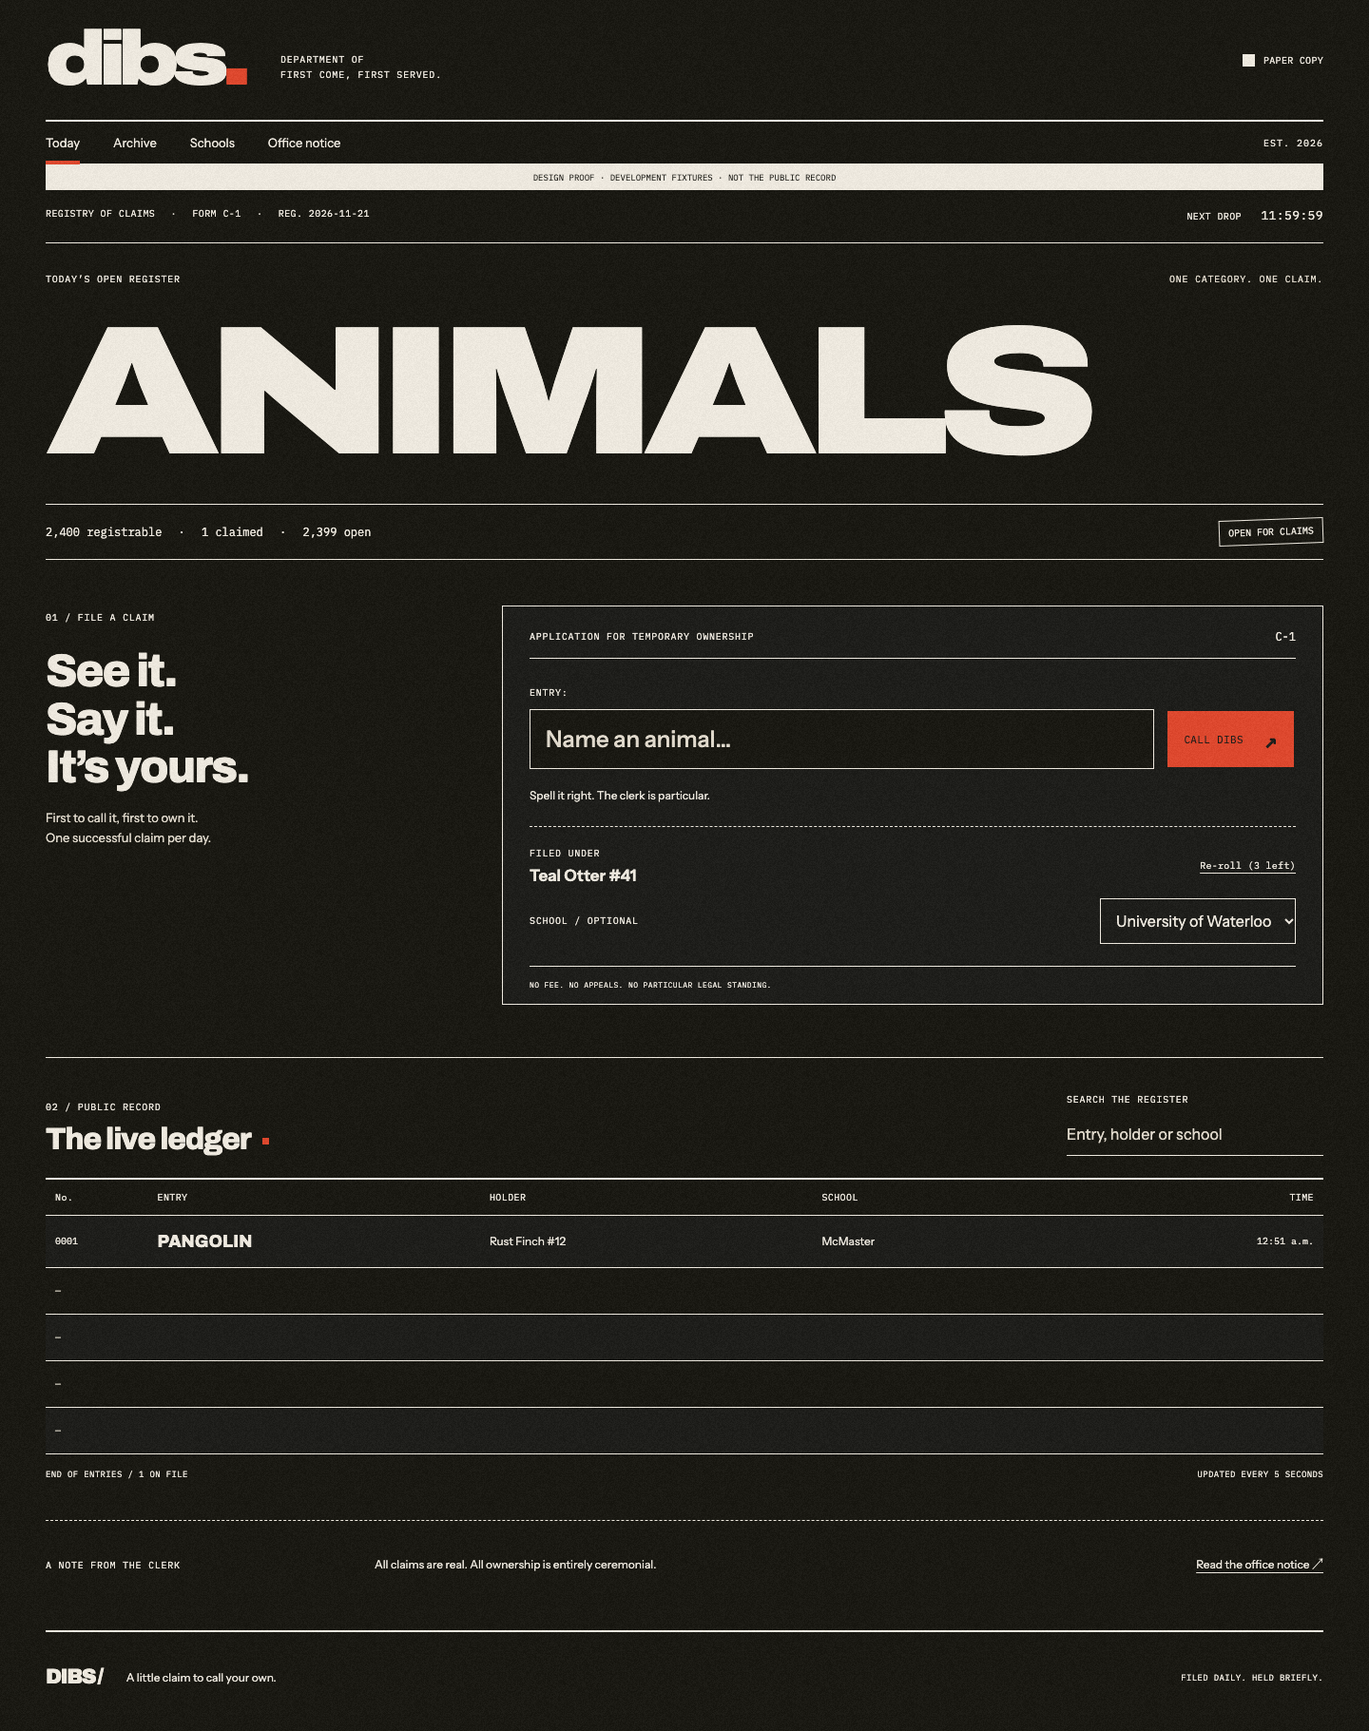
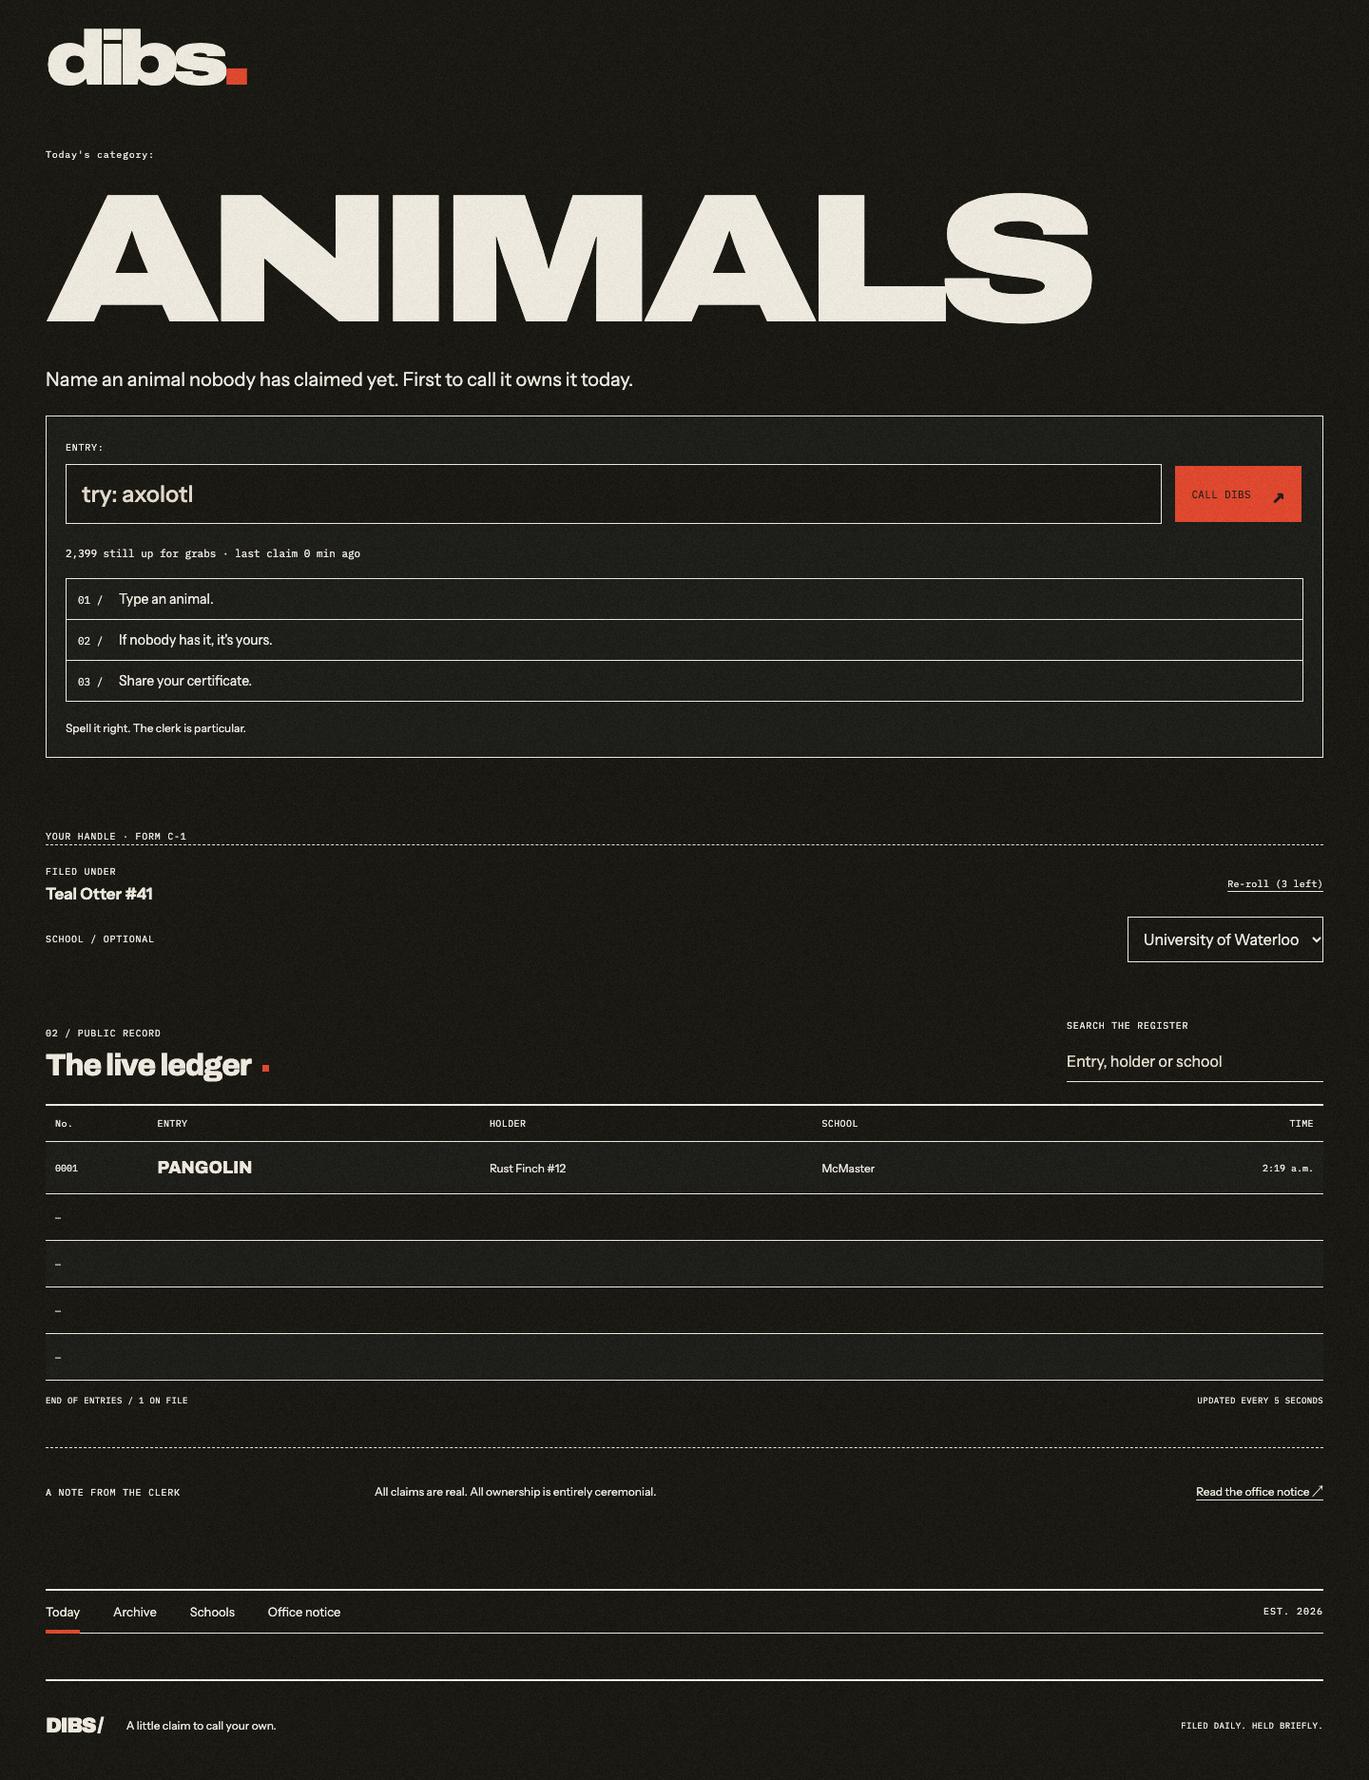
R2: put the game and claim input in the first phone viewport

diff --git a/src/App.tsx b/src/App.tsx
@@ -131,7 +131,7 @@ export default function App() {
       <a className="skip" href="#main">
         Skip to registry
       </a>
-      <div className="page">
+      <div className={"page " + (path === "/" ? "home-page" : "")}>
         <header className="masthead">
           <Link to="/" className="wordmark" aria-label="Dibs home">
             dibs<span className="wordmark-dot">.</span>
@@ -360,7 +360,7 @@ function Home({
       setTaken(err.status === 409);
       setMessage(
         err.status === 409
-          ? `${answer.toUpperCase()} is already registered to ${err.data.takenBy} (${time(err.data.at)}). Please call dibs on something else.`
+          ? `Someone already called dibs on ${answer.toUpperCase()} (${err.data.takenBy}). Try another.`
           : err.message,
       );
       input.current?.focus();
@@ -370,64 +370,19 @@ function Home({
   }
   return (
     <>
-      <div className="reg-strip">
-        <span>
-          REGISTRY OF CLAIMS <b>·</b> FORM C-1 <b>·</b> REG.{' '}
-          {today.category?.date ||
-            new Date().toLocaleDateString('en-CA', { timeZone: 'America/Toronto' })}
-        </span>
-        <span>
-          NEXT DROP <Clock target={today.nextDrop} />
-        </span>
-      </div>
       <section className="daily-heading">
-        <div className="heading-note">
-          <span className="eyebrow">
-            {today.category ? 'TODAY’S OPEN REGISTER' : 'OFFICE NOTICE / 001'}
-          </span>
-          <span className="folio">ONE CATEGORY. ONE CLAIM.</span>
-        </div>
+        <span className="eyebrow">{today.category ? "Today's category:" : 'THE DAILY GAME OF FIRST CLAIMS'}</span>
         <CategoryHeading name={today.category?.name || 'DIBS'} />
-        <div className="category-bottom">
-          <span>
-            {today.category ? (
-              <>
-                <strong>{today.category.total_registrable.toLocaleString()}</strong> registrable{' '}
-                <i>·</i> <strong>{today.claimed.toLocaleString()}</strong> claimed <i>·</i>{' '}
-                <strong>{today.open.toLocaleString()}</strong> open
-                {!!today.voided && (
-                  <>
-                    <i>·</i>
-                    <strong>{today.voided.toLocaleString()}</strong> voided
-                  </>
-                )}
-              </>
-            ) : (
-              'THE DAILY REGISTRY OF FIRST CLAIMS'
-            )}
-          </span>
-          <span className="small-stamp">
-            {today.category ? 'OPEN FOR CLAIMS' : 'AWAITING REVIEW'}
-          </span>
-        </div>
+        {today.category && <p className="game-rule">Name {today.category.slug === 'animals' ? 'an animal' : 'an item in this category'} nobody has claimed yet. First to call it owns it today.</p>}
       </section>
       {!today.category ? (
         <section className="closed-office">
           <span className="section-number">01 /</span>
           <div>
-            <h2>
-              The next register
-              <br />
-              is on the clerk’s desk.
-            </h2>
-            <p>
-              One category. One answer that belongs to you.
-              <br />
-              New registers open at 9 PM, Toronto time.
-            </p>
-            <p className="eyebrow">
-              {today.closedReason || 'CATEGORIES ARE UNDER REVIEW. NO CLAIMS ARE OPEN YET.'}
-            </p>
+            <h2>The office opens tonight.</h2>
+            <p>The next category drops tonight at 9 PM ET. Come back to call dibs.</p>
+            <p className="eyebrow">NEXT DROP <Clock target={today.nextDrop} /></p>
+            <p className="closed-example">EXAMPLE · If the category is Animals, type “axolotl”. If nobody has it, it’s yours. Share your certificate.</p>
           </div>
           <div className="closed-seal" aria-hidden="true">
             DIBS
@@ -473,25 +428,7 @@ function Home({
           animate={landed && !reduced ? { x: [0, -6, 6, -3, 0] } : {}}
           transition={{ duration: 0.25 }}
         >
-          <div className="claim-side">
-            <span className="section-number">01 / FILE A CLAIM</span>
-            <h2>
-              See it. <br />
-              Say it.
-              <br />
-              It’s yours.
-            </h2>
-            <p>
-              First to call it, first to own it.
-              <br />
-              One successful claim per day.
-            </p>
-          </div>
           <div className="claim-paper">
-            <div className="form-heading">
-              <span className="eyebrow">APPLICATION FOR TEMPORARY OWNERSHIP</span>
-              <span>C-1</span>
-            </div>
             <form onSubmit={submit}>
               <label className="eyebrow" htmlFor="answer">
                 ENTRY:
@@ -502,7 +439,7 @@ function Home({
                   id="answer"
                   name="answer"
                   value={answer}
-                  placeholder={`Name an ${today.category.name.toLowerCase() === 'animals' ? 'animal' : 'entry'}…`}
+                  placeholder={today.category.slug === 'animals' ? 'try: axolotl' : 'Name an item…'}
                   onChange={(e) => {
                     setAnswer(e.target.value);
                     setActive(-1);
@@ -568,10 +505,23 @@ function Home({
                   </li>
                 ))}
               </ul>
+              <p className="live-strip">{today.open.toLocaleString()} still up for grabs · {today.lastClaimAt ? `last claim ${Math.max(0, Math.floor((Date.now() - Date.parse(today.lastClaimAt)) / 60000))} min ago` : 'be the first to claim'}</p>
+              <ol className="how-it-works" aria-label="How it works">
+                <li>Type {today.category.slug === 'animals' ? 'an animal' : 'a category item'}.</li>
+                <li>If nobody has it, it's yours.</li>
+                <li>Share your certificate.</li>
+              </ol>
               <div ref={turnstileBox} className="turnstile" />
               <p className={'clerk-message ' + (taken ? 'taken' : '')} role="status">
                 {message || 'Spell it right. The clerk is particular.'}
               </p>
+            </form>
+
+          </div>
+        </motion.section>
+      )}
+      {!claim && me.user && <section className="identity-section">
+        <span className="eyebrow">YOUR HANDLE · FORM C-1</span>
               <div className="identity">
                 <div>
                   <span className="eyebrow">FILED UNDER</span>
@@ -599,11 +549,7 @@ function Home({
                   ))}
                 </select>
               </div>
-            </form>
-            <div className="form-foot">NO FEE. NO APPEALS. NO PARTICULAR LEGAL STANDING.</div>
-          </div>
-        </motion.section>
-      )}
+      </section>}
       <Ledger category={today.category} />
       <div className="bottom-note">
         <span className="eyebrow">A NOTE FROM THE CLERK</span>

diff --git a/src/style.css b/src/style.css
@@ -1795,3 +1795,29 @@ html.low-power .claim-imprint strong {
   z-index: 3;
   pointer-events: none;
 }
+/* Round 2: the game is the first form on the page. */
+.home-page { display: flex; flex-direction: column; }
+.home-page > nav { order: 2; margin-top: 36px; }
+.home-page > footer { order: 3; }
+.home-page .mast-note, .home-page .theme-toggle { display: none; }
+.home-page .demo-label { display: none; }
+.home-page .daily-heading { padding-top: 24px; }
+.home-page .category { margin: 12px 0 20px; }
+.game-rule { font-size: 20px; max-width: 650px; margin-bottom: 24px; line-height: 1.4; }
+.home-page .claim-section { display: block; padding: 0; border: 0; }
+.home-page .claim-paper { padding: 20px; }
+.live-strip { font: 11px/1.7 Plex, monospace; margin: 22px 0 16px; }
+.how-it-works { list-style: none; padding: 0; margin: 0; counter-reset: steps; }
+.how-it-works li { border: 1px solid var(--ink); padding: 12px; font-size: 14px; }
+.how-it-works li + li { border-top: 0; }
+.how-it-works li:before { counter-increment: steps; content: '0' counter(steps) ' / '; font: 11px Plex, monospace; margin-right: 10px; }
+.home-page .clerk-message { margin-bottom: 0; }
+.identity-section { margin-top: 70px; }
+@media(max-width: 600px) {
+  .home-page .masthead { min-height: 92px; padding: 16px 0; }
+  .home-page .daily-heading { padding-top: 22px; }
+  .home-page .category { margin: 12px 0 18px; }
+  .game-rule { font-size: 18px; margin-bottom: 24px; }
+  .home-page .claim-paper { padding: 16px; }
+  .home-page .identity-section { margin-top: max(70px, calc(844px - 640px)); }
+}

diff --git a/worker/index.ts b/worker/index.ts
@@ -288,7 +288,7 @@ export async function route(req: Request, env: Env): Promise<Response> {
     const category = await current(env);
     const counts = category
       ? await env.DB.prepare(
-          'SELECT COUNT(*) reserved,COALESCE(SUM(voided=0),0) claimed FROM claims WHERE category_id=?',
+          'SELECT COUNT(*) reserved,COALESCE(SUM(voided=0),0) claimed,MAX(CASE WHEN voided=0 THEN created_at END) lastClaimAt FROM claims WHERE category_id=?',
         )
           .bind(category.id)
           .first<any>()
@@ -297,6 +297,7 @@ export async function route(req: Request, env: Env): Promise<Response> {
     return json({
       category,
       claimed,
+      lastClaimAt: counts.lastClaimAt || null,
       open: category ? category.total_registrable - Number(counts.reserved) : 0,
       voided: Number(counts.reserved) - claimed,
       nextDrop: nextDrop(),

diff --git a/tests/e2e/first-viewport.spec.ts b/tests/e2e/first-viewport.spec.ts
@@ -1,0 +1,13 @@
+import { test, expect } from '@playwright/test';
+test('a fresh phone explains the game and can call dibs without scrolling', async ({ page }) => {
+  await page.setViewportSize({ width: 390, height: 844 });
+  await page.goto('/');
+  await expect(page.locator('.game-rule')).toHaveText('Name an animal nobody has claimed yet. First to call it owns it today.');
+  await page.evaluate(() => document.fonts.ready);
+  for (const locator of [page.locator('h1.category'), page.locator('.game-rule'), page.getByLabel('ENTRY:', {exact:true}), page.getByRole('button', {name:'CALL DIBS'})]) {
+    const box = await locator.boundingBox();
+    expect(box).not.toBeNull();
+    expect(box!.y).toBeGreaterThanOrEqual(0);
+    expect(box!.y + box!.height).toBeLessThanOrEqual(844);
+  }
+});

diff --git a/scripts/screenshots.ts b/scripts/screenshots.ts
@@ -31,7 +31,7 @@ for (const width of [390, 1440])
     await page.goto('http://127.0.0.1:5173');
     await page.getByLabel('ENTRY:', { exact: true }).fill('Pangolin');
     await page.getByRole('button', { name: 'CALL DIBS' }).click();
-    await page.getByRole('status').filter({ hasText: 'already registered' }).waitFor();
+    await page.getByRole('status').filter({ hasText: 'already called dibs' }).waitFor();
     await page.screenshot({ path: `${dir}/taken-${width}-${theme}.png`, fullPage: true });
     await page.getByLabel('ENTRY:', { exact: true }).fill('Axolotl');
     await page.getByRole('button', { name: 'CALL DIBS' }).click();

diff --git a/tests/e2e/rollover.spec.ts b/tests/e2e/rollover.spec.ts
@@ -11,7 +11,7 @@ test('a new daily register clears yesterday’s certificate and form state', asy
   await page.goto('/');
   await page.getByLabel('ENTRY:', { exact: true }).fill('Pangolin');
   await page.getByRole('button', { name: 'CALL DIBS' }).click();
-  await expect(page.getByRole('status')).toContainText('already registered');
+  await expect(page.getByRole('status')).toContainText('already called dibs');
   await page.getByLabel('ENTRY:', { exact: true }).fill('Axolotl');
   await page.getByRole('button', { name: 'CALL DIBS' }).click();
   await expect(

diff --git a/tests/e2e/flow.spec.ts b/tests/e2e/flow.spec.ts
@@ -27,7 +27,7 @@ test('full filing, certificate, sharing and public record', async ({ page }, inf
   await input.press('Enter');
   await expect(input).toHaveValue('Pangolin');
   await page.getByRole('button', { name: 'CALL DIBS' }).click();
-  await expect(page.getByRole('status')).toContainText('already registered');
+  await expect(page.getByRole('status')).toContainText('already called dibs');
   await shot('02-taken');
   await input.fill('Axolotl');
   await page.getByRole('button', { name: 'CALL DIBS' }).click();

diff --git a/dev/fixture.ts b/dev/fixture.ts
@@ -55,6 +55,7 @@ export async function request(path: string, body?: any): Promise<any> {
     return {
       category,
       claimed: claims.length,
+      lastClaimAt: claims[0]?.created_at || null,
       open: 2400 - claims.length,
       nextDrop: new Date(Date.now() + 3600000 * 12).toISOString(),
       turnstileSiteKey: 'demo',

diff --git a/src/types.ts b/src/types.ts
@@ -34,6 +34,7 @@ export interface Today {
   nextDrop: string;
   turnstileSiteKey: string;
   closedReason?: string;
+  lastClaimAt?: string | null;
 }
 export interface Me {
   user: User | null;

diff --git a/FIXES.md b/FIXES.md
@@ -1,0 +1,107 @@
+# FIXES.md: round 2 (owner review, Nov 21)
+
+> **Running overnight, unattended:** I'm asleep, so don't stop to ask questions. Make reasonable calls and log them in the report.
+> **The remote D1 free quota is exhausted until Nov 21, 7 PM Toronto.**
+> - Do all development and testing against local D1 (`wrangler dev --local`).
+> - Deploying Pages and the Worker code is fine.
+> - Do NOT run remote D1 migrations or remote D1 queries before the reset, and don't retry them in a loop.
+> - Write any pending remote steps as exact commands under "Run after 7 PM" in the report.
+
+Work through these in order. Commit and push after each item, with messages prefixed `R2:`. Re-run the Playwright screenshot loop and the anti-AI checklist after every UI change. Add a short "Round 2" section to MORNING_REPORT.md at the end.
+
+## 1. Make the game instantly obvious (top priority)
+
+A first-time visitor on a phone must understand the game and be able to play within 5 seconds, **without scrolling**. Right now they can't.
+
+**Above the fold at 390×844, show only:**
+- the wordmark
+- **Today's category:** ANIMALS (huge)
+- **One plain-English rule line:** "Name an animal nobody has claimed yet. First to call it owns it today."
+- **The input,** focused-ready, with a placeholder example such as "try: axolotl", and the CALL DIBS button
+- **A tiny live strip:** "2,399 still up for grabs · last claim 2 min ago". Real numbers only.
+
+**Add a 3-step "How it works" strip** just below the input, with one short line each, styled as form boxes:
+1. Type a [category item].
+2. If nobody has it, it's yours.
+3. Share your certificate.
+
+**Move below the fold, or after the first claim:**
+- the handle and re-roll box
+- the registry jargon (FORM C-1, REG. date, "Application for temporary ownership")
+
+Keep the registry style, but make the words plain. Jargon is decoration, never instructions.
+
+**The "taken" message must explain in one line:** "Someone already called dibs on X (Rust Finch #12). Try another."
+
+**When no category is open** (the closed office), say plainly: "The next category drops tonight at 9 PM ET. Come back to call dibs." Also show the countdown and an example of how the game works.
+
+**Test it:** write a Playwright test that loads a fresh page at 390×844 and asserts that the category, rule line, input and CALL DIBS button are all in the first viewport.
+
+## 2. Remove schools completely
+
+- Delete the school picker, the Schools page and nav item, the ledger school column, school data on certificates and OG images, and all related API and DB usage.
+- Add a migration that drops or ignores the column.
+- Leave no "rep your school" prompt anywhere.
+
+## 2b. Never look dead (honestly, with no fake players)
+
+Never fabricate players, claims, handles or counts. Instead, design the low-traffic states so they look intentional and inviting:
+
+- **Ledger with fewer than 10 claims:** don't show a big empty table. Show a compact "First filings" card listing the real claims so far, with each slot shown as an open, numbered line ("No. 0004 — open").
+  - Headline the pool instead: "2,399 animals still unclaimed. Be early."
+  - Being early is the selling point.
+- **Archive:** list only days that had at least one claim. Before any day has closed, show one handsome sample page clearly titled "SPECIMEN — how a filed day looks", with an obvious SPECIMEN watermark across it.
+  - Specimens are allowed only when they're unmistakably labelled as examples, never mixed into real records.
+- **Counts:** never show "0 players". Show the open pool and the countdown instead.
+
+## 3. Stamp text readability
+
+The `DEEP CUT · REGISTERED` text inside the stamp is unreadable. Make it at least 9px at 390px wide and at least 18px in the 1080 PNG exports, or drop it and use a separate, legible DEEP CUT mark.
+
+## 4. One logo everywhere
+
+Use the lowercase `dibs.` wordmark with the vermilion block in the header, footer, certificate, OG image and favicon. Remove `DIBS/`.
+
+## 5. No localhost on certificates
+
+- Every certificate, PNG export, OG image and share text uses a single config value `PUBLIC_ORIGIN`. For now that's `dibs-7hz.pages.dev`.
+- Add a test that fails if any export or OG image contains `127.0.0.1`, `localhost` or `5173`.
+
+## 6. Run cheaply: stay on free tiers at 10,000 daily players
+
+- **No player traffic should hit D1 directly for reads.**
+  - Serve `/api/today` and `/api/ledger` from the Workers Cache API with a shared cache key. Each region then hits D1 at most once every 10 seconds, no matter how many players are watching.
+  - Claims are the only per-player D1 writes.
+- **Poll the ledger every 15 seconds,** then 60 seconds after 2 minutes. Stop when the tab is hidden, and refresh immediately after the player's own claim.
+- **Serve static assets from Pages only,** with long cache headers (free and unlimited). Fonts are subset WOFF2. The total first-load payload is under 300 KB, excluding the noise PNG.
+- **Generate OG images once per claim and cache them.** Never re-render on every request.
+- **Report the Workers requests and D1 rows per day** at 100, 1,000 and 10,000 players against Cloudflare's current free limits, citing the docs. If any number crosses a limit, redesign until it doesn't.
+
+## 6b. Free-tier safety (before any real traffic)
+
+- **Measure the D1 rows read and written per action:** page load, one ledger poll, one claim, one certificate view. Put them in a table.
+- **Project daily usage at 100, 1,000 and 10,000 players,** each keeping the page open for 5 minutes, against Cloudflare's current D1 free limits. Cite the docs page.
+- **Make polling cheap:**
+  - Poll only for new rows (indexed `claim_no > since`).
+  - Back off to every 15 seconds after 2 minutes, and pause when the tab is hidden.
+  - Serve `/api/today` counts from a cache refreshed at most every 10 seconds.
+- **If D1 is over quota,** show a clerk-voice "Registry closed for the day" page, never a raw 503.
+- **Explain why the quota was hit tonight,** and make the category upload script batched so that doesn't happen again.
+
+## 7. Cleanup (last step, after everything passes and is pushed)
+
+Delete the large downloaded and generated files that aren't needed to run or rebuild the project. First list everything with its size, then delete:
+- `.category-cache/`
+- `test-results/`
+- `review/devices/`, plus any other large raw capture folders. Keep `review/final/`, `review/index.html`, `review/categories.md` and `ACCEPTANCE.md`.
+- `dist/`
+- `node_modules/` (it's restored with `npm install`)
+- Playwright's downloaded browsers: `npx playwright uninstall --all`, or delete `~/Library/Caches/ms-playwright`
+
+Report the disk space freed. Only delete inside this project folder, apart from the Playwright browser cache.
+
+## Do not
+
+- Don't approve or schedule any category. They stay drafts for my review.
+- No custom domain, plan or billing changes, and no posting anywhere.
+- Never commit secrets or MORNING_REPORT.md.
